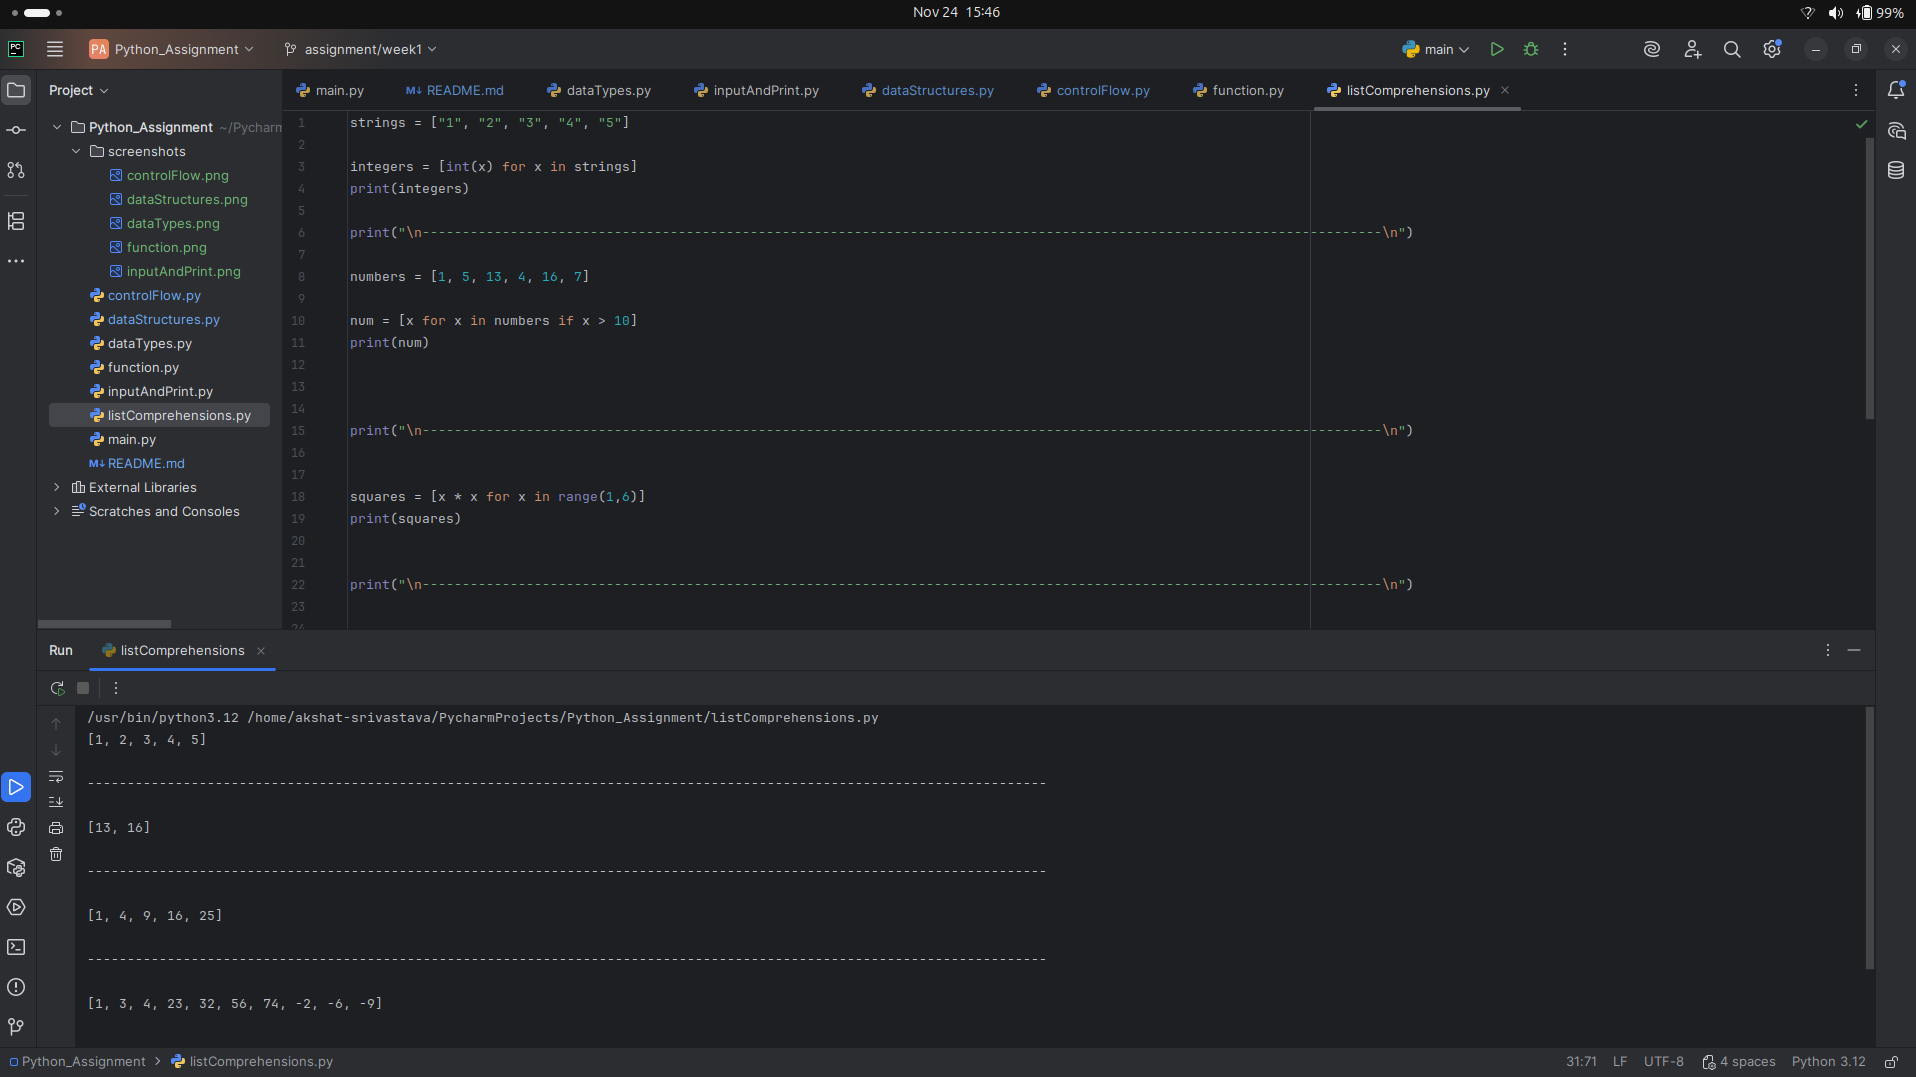
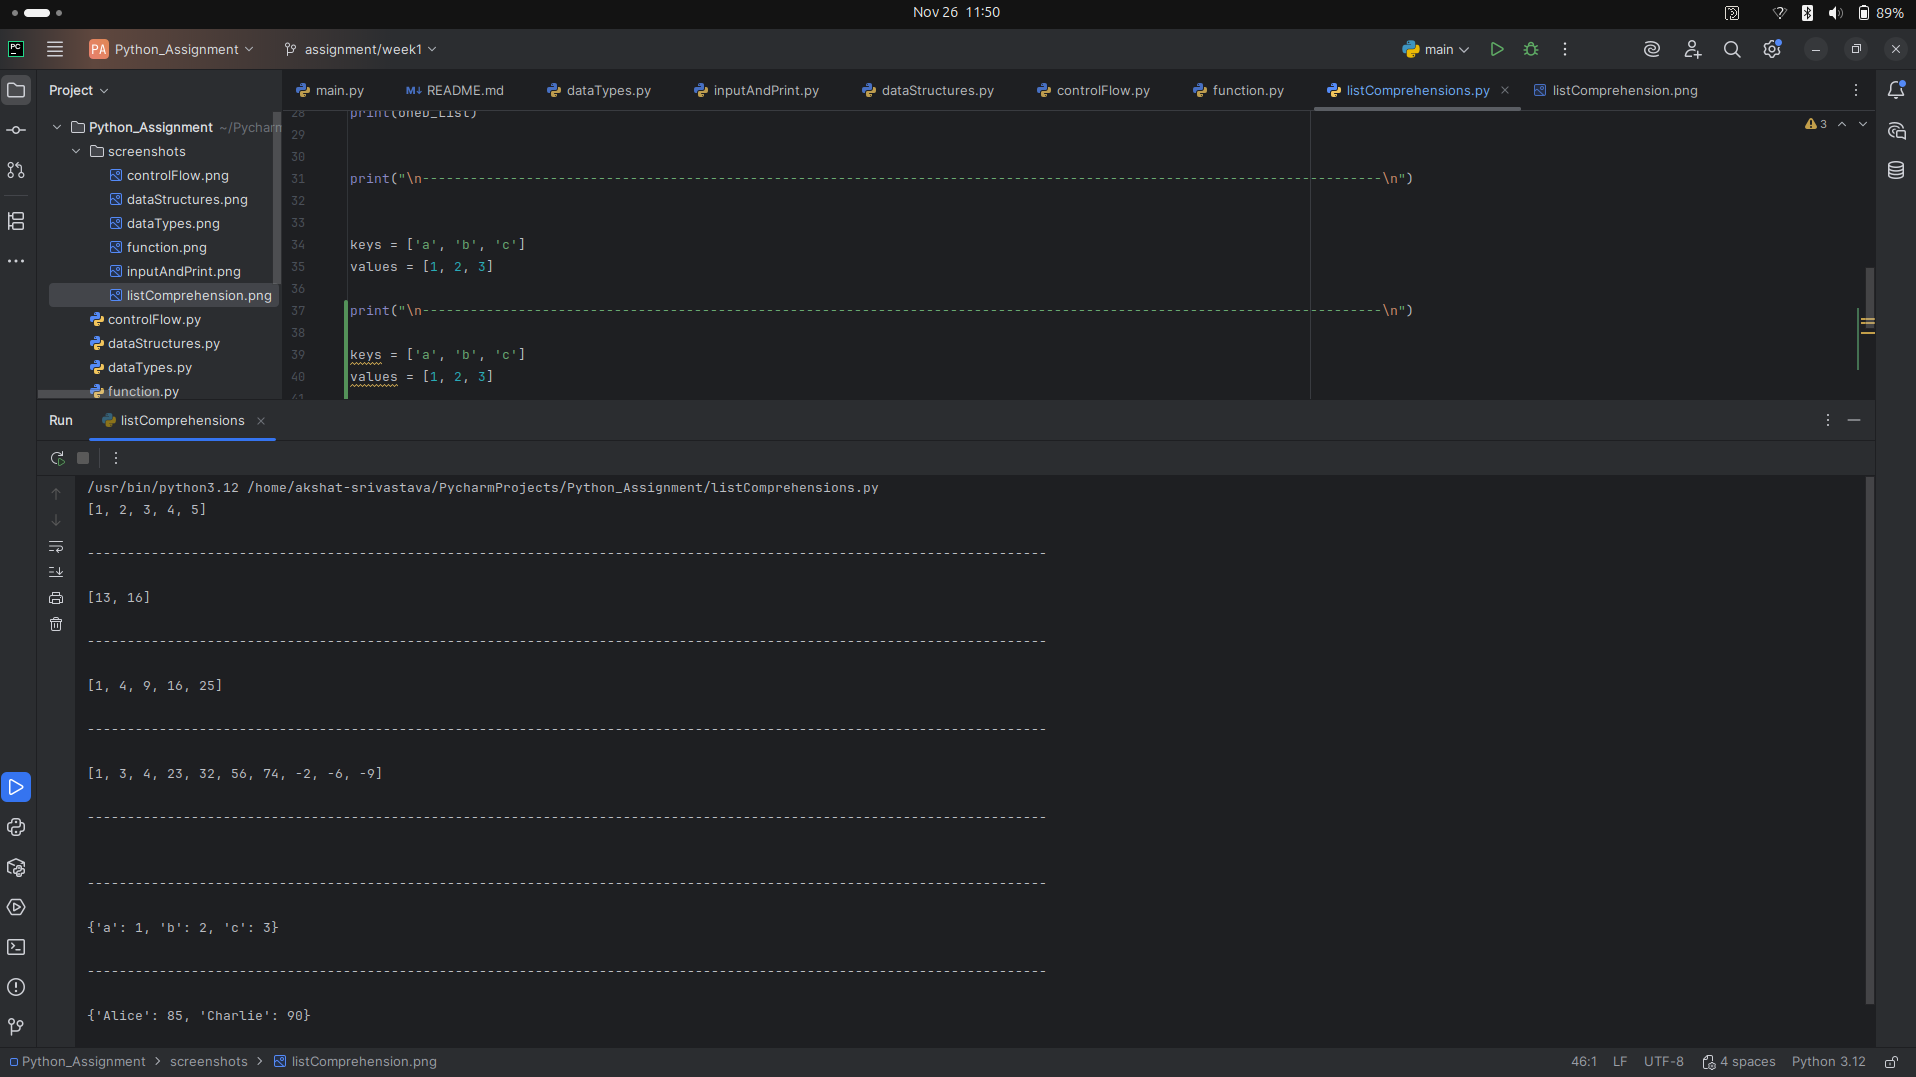
Solve remaining 2 problem

diff --git a/listComprehensions.py b/listComprehensions.py
@@ -33,3 +33,18 @@ print("\n-----------------------------------------------------------------------
 
 keys = ['a', 'b', 'c']
 values = [1, 2, 3]
+
+print("\n------------------------------------------------------------------------------------------------------------------------\n")
+
+keys = ['a', 'b', 'c']
+values = [1, 2, 3]
+
+key_values = {keys[i] : values[i] for i in range(len(keys))}
+print(key_values)
+
+print("\n------------------------------------------------------------------------------------------------------------------------\n")
+
+scores = {'Alice': 85, 'Bob': 70, 'Charlie': 90}
+
+top_score = {name:score for name, score in scores.items() if score > 80}
+print(top_score)
